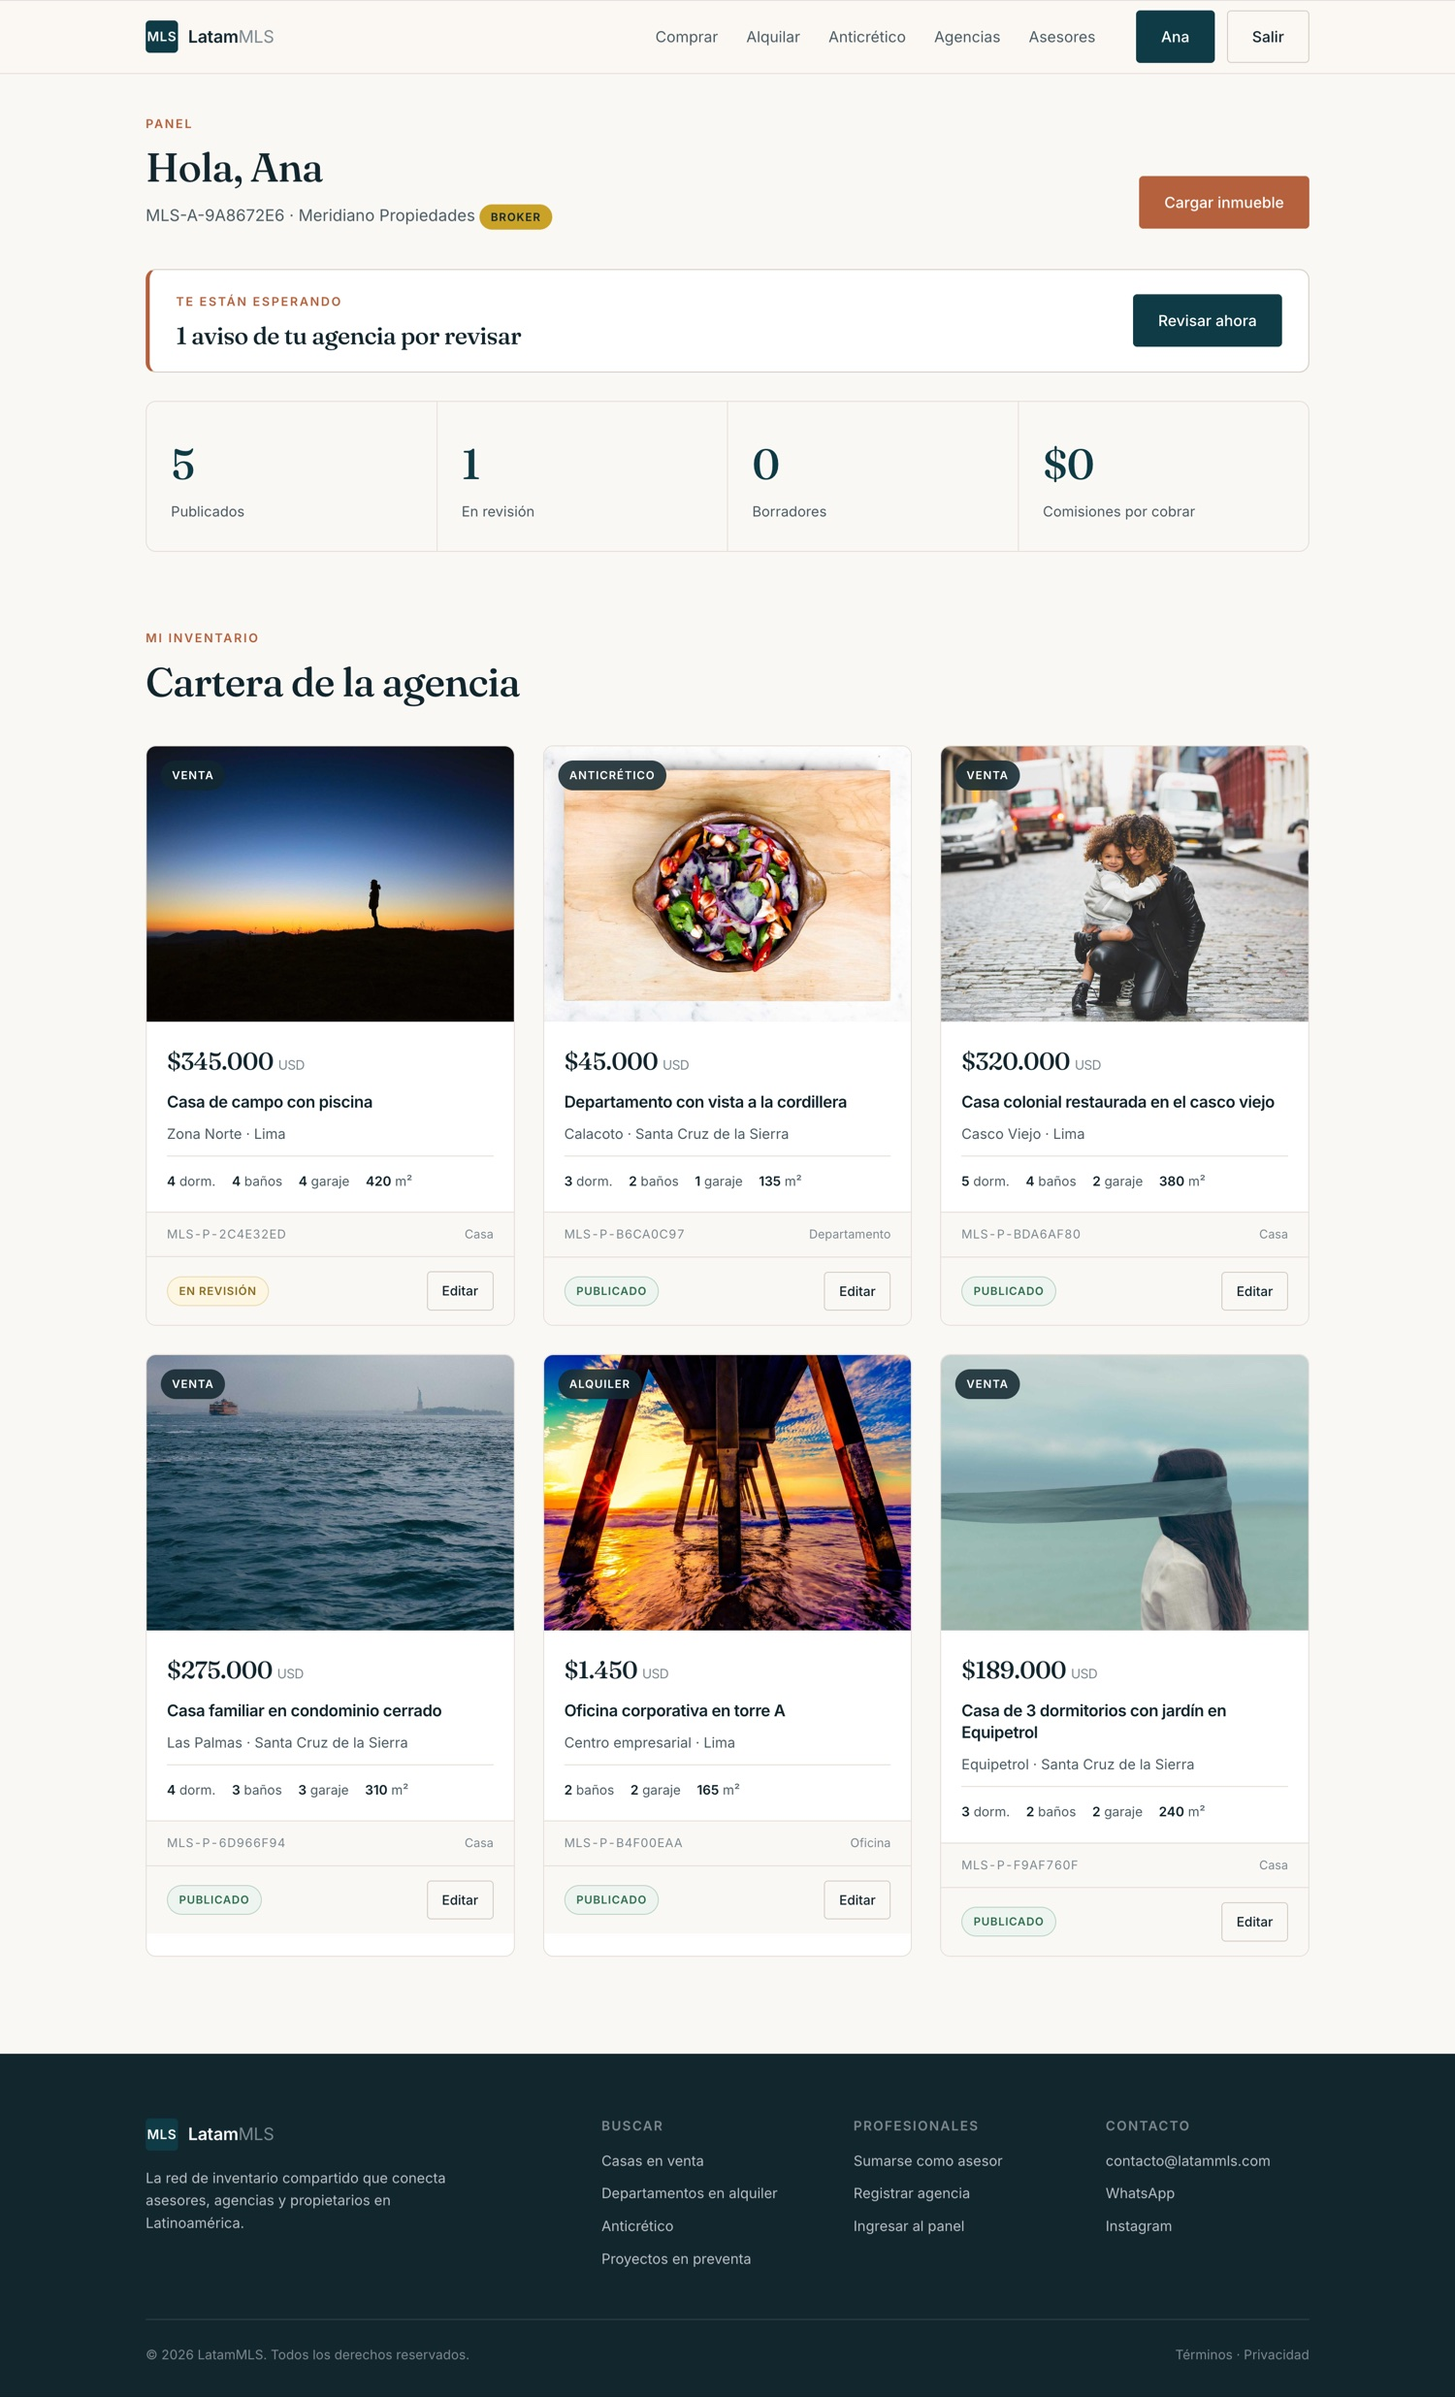
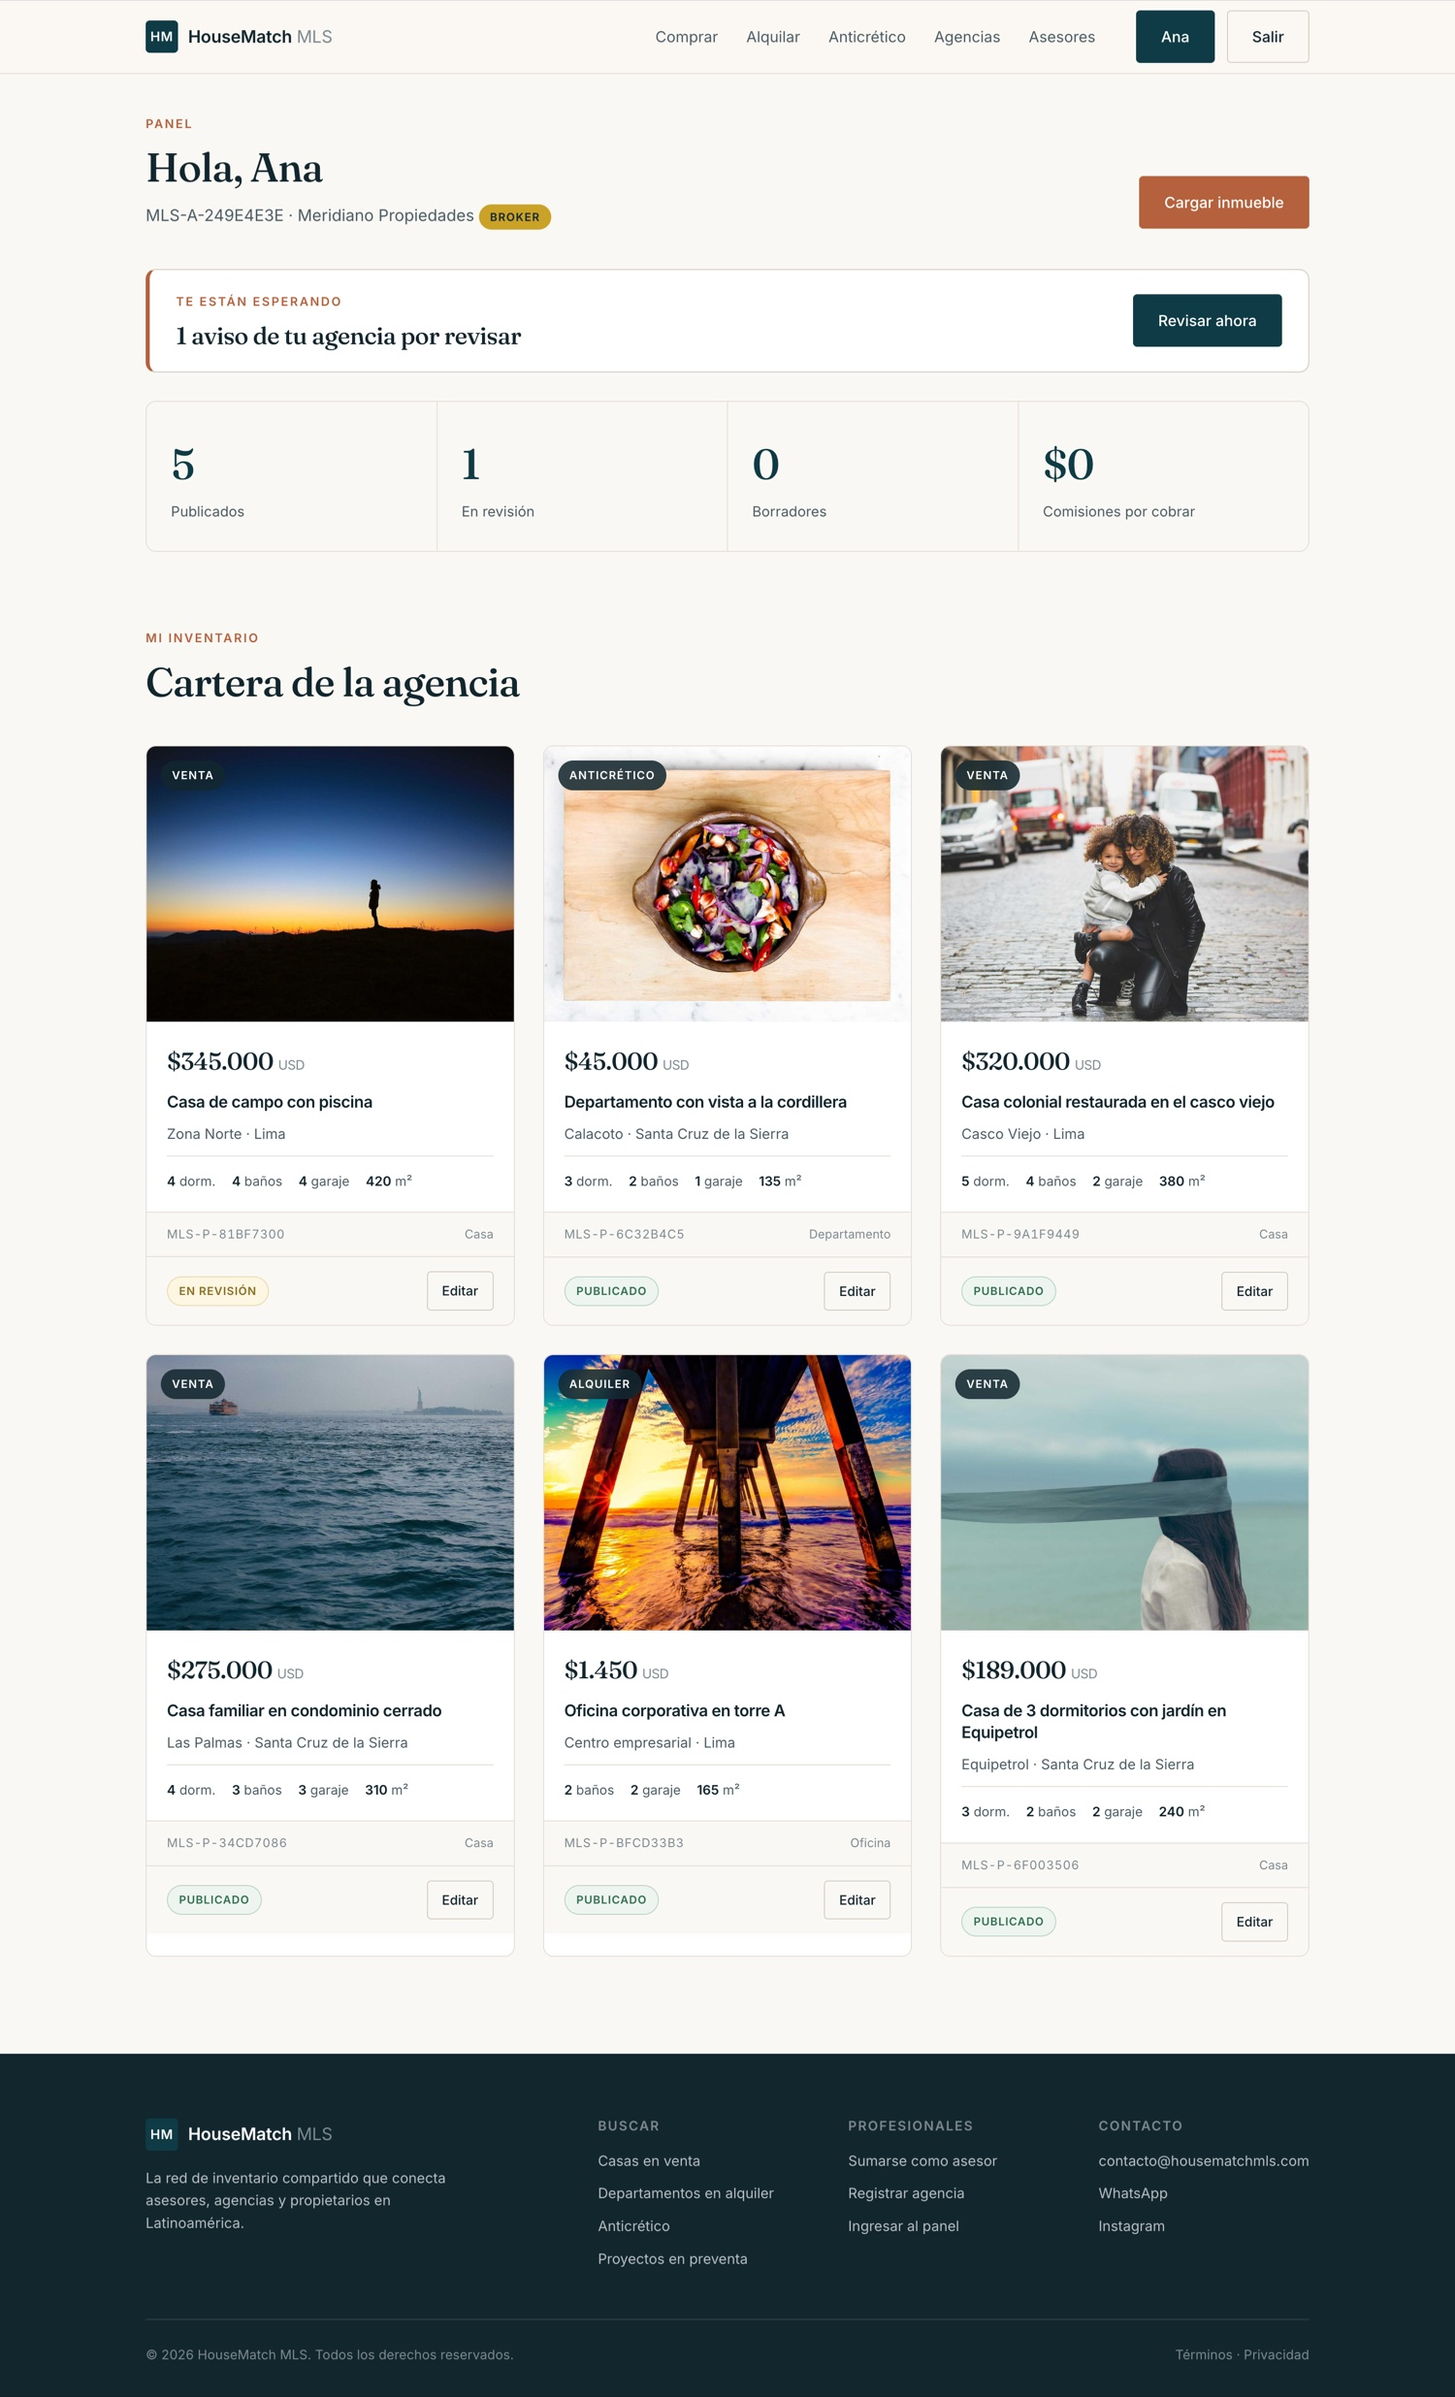
El producto pasa a llamarse HouseMatch MLS
Renombre completo: plantillas, sitio de presentación, datos de demostración y
suite de pruebas. El sello del logotipo pasa de MLS a HM, porque con el nombre
nuevo la sigla quedaba dos veces en el mismo lockup.

Los correos de demostración cambian a @housematchmls.com, así que se
regeneraron los datos y las capturas del sitio.

diff --git a/docs/index.html b/docs/index.html
@@ -3,9 +3,9 @@
 <head>
 <meta charset="utf-8">
 <meta name="viewport" content="width=device-width, initial-scale=1">
-<title>LatamMLS — el inventario inmobiliario, compartido</title>
+<title>HouseMatch MLS — el inventario inmobiliario, compartido</title>
 <meta name="description" content="Un MLS para el mercado inmobiliario latinoamericano: inventario compartido entre agencias, con trazabilidad de la captación y reparto de comisiones documentado. Django, PostgreSQL y PostGIS.">
-<meta property="og:title" content="LatamMLS">
+<meta property="og:title" content="HouseMatch MLS">
 <meta property="og:description" content="Un portal muestra avisos. Un MLS sostiene el acuerdo entre quien capta y quien vende.">
 <meta property="og:type" content="website">
 <link rel="preconnect" href="https://fonts.googleapis.com">
@@ -20,7 +20,7 @@
 <!-- ─────────────────────────────────────────────────────────── hero -->
 <header class="hero">
   <nav class="nav" aria-label="principal">
-    <span class="marca"><span class="sello">MLS</span> LatamMLS</span>
+    <span class="marca"><span class="sello">HM</span> HouseMatch MLS</span>
     <div class="nav-enlaces">
       <a href="#pantallas">la app</a>
       <a href="#garantias">qué garantiza</a>
@@ -98,10 +98,10 @@
     <figure class="marco">
       <div class="barra-navegador">
         <span class="puntos"><i></i><i></i><i></i></span>
-        <span class="url" id="url">latammls.com</span>
+        <span class="url" id="url">housematchmls.com</span>
       </div>
       <div class="ventana" id="ventana">
-        <img id="captura" src="assets/portada.jpg" alt="Portada de LatamMLS: buscador de inmuebles sobre una fotografía, con métricas del inventario debajo." width="1500" height="4375">
+        <img id="captura" src="assets/portada.jpg" alt="Portada de HouseMatch MLS: buscador de inmuebles sobre una fotografía, con métricas del inventario debajo." width="1500" height="4375">
       </div>
       <figcaption id="pie">
         La portada abre con el buscador y las métricas salen de la base, no son
@@ -112,7 +112,7 @@
 
   <aside class="movil">
     <div class="telefono">
-      <img src="assets/movil.jpg" alt="La portada de LatamMLS en pantalla de teléfono" width="560" height="1500" loading="lazy">
+      <img src="assets/movil.jpg" alt="La portada de HouseMatch MLS en pantalla de teléfono" width="560" height="1500" loading="lazy">
     </div>
     <div class="movil-texto">
       <h3>También en el teléfono</h3>
@@ -201,7 +201,7 @@ createdb mls_db &amp;&amp; psql -d mls_db -c &quot;CREATE EXTENSION postgis;&quo
     El comando de demostración deja tres agencias, cuatro asesores y doce
     inmuebles, dos de ellos esperando aprobación para que la cola del broker
     tenga contenido. Entrás como broker con
-    <code>ana.rojas@latammls.com</code> / <code>demo12345</code>.
+    <code>ana.rojas@housematchmls.com</code> / <code>demo12345</code>.
   </p>
 
   <div class="pila">

diff --git a/docs/main.js b/docs/main.js
@@ -4,32 +4,32 @@
   // Cada pantalla trae su propia URL y el pie que explica qué está probando.
   var VISTAS = {
     portada: {
-      url: "latammls.com",
-      alt: "Portada de LatamMLS: buscador de inmuebles sobre una fotografía, con las métricas del inventario debajo.",
+      url: "housematchmls.com",
+      alt: "Portada de HouseMatch MLS: buscador de inmuebles sobre una fotografía, con las métricas del inventario debajo.",
       pie: "La portada abre con el buscador y las métricas salen de la base, no son adorno: 12 propiedades publicadas, 4 asesores, 3 agencias."
     },
     buscador: {
-      url: "latammls.com/buscar/?operacion=venta",
+      url: "housematchmls.com/buscar/?operacion=venta",
       alt: "Resultados de búsqueda con filtros por operación, tipo, ciudad y precio.",
       pie: "El buscador filtra de verdad: operación, tipo, ciudad y rango de precio, con orden y paginación que conservan los filtros."
     },
     panel: {
-      url: "latammls.com/panel/",
+      url: "housematchmls.com/panel/",
       alt: "Panel del asesor con sus métricas, captaciones por vencer y su inventario.",
       pie: "El panel muestra solo lo del asesor. Pedir por dirección directa un inmueble ajeno devuelve 404, no 403: un 403 confirmaría que existe."
     },
     aprobaciones: {
-      url: "latammls.com/panel/aprobaciones/",
+      url: "housematchmls.com/panel/aprobaciones/",
       alt: "Cola de revisión del broker, con un aviso pendiente y los botones de aprobar o devolver.",
       pie: "La cola del broker. Nada de esto está en el portal todavía; al aprobar queda registrado quién lo hizo, y devolver exige escribir el motivo."
     },
     carga: {
-      url: "latammls.com/panel/inmueble/nuevo/",
+      url: "housematchmls.com/panel/inmueble/nuevo/",
       alt: "Formulario de carga de inmueble, con las secciones de ubicación pública y privada separadas.",
       pie: "El formulario separa la ubicación pública de la privada. La calle y el punto exacto son dato reservado de quien captó."
     },
     acceso: {
-      url: "latammls.com/ingresar/",
+      url: "housematchmls.com/ingresar/",
       alt: "Pantalla de acceso con el campo de correo electrónico.",
       pie: "La identidad es el correo, no un nombre de usuario: el modelo de Django no admite direcciones con apóstrofo, frecuentes en apellidos de la región."
     }

diff --git a/MLS/core/templates/core/base.html b/MLS/core/templates/core/base.html
@@ -16,8 +16,8 @@
 <header class="cabecera">
   <div class="contenedor cabecera__inner">
     <a href="{% url 'core:landing' %}" class="marca">
-      <span class="marca__sello">MLS</span>
-      <span class="marca__texto">Latam<span>MLS</span></span>
+      <span class="marca__sello">HM</span>
+      <span class="marca__texto">HouseMatch<span> MLS</span></span>
     </a>
 
     <nav class="nav">
@@ -60,8 +60,8 @@
     <div class="pie__grid">
       <div>
         <div class="marca">
-          <span class="marca__sello">MLS</span>
-          <span class="marca__texto">Latam<span>MLS</span></span>
+          <span class="marca__sello">HM</span>
+          <span class="marca__texto">HouseMatch<span> MLS</span></span>
         </div>
         <p class="pie__desc">La red de inventario compartido que conecta asesores, agencias y propietarios en Latinoamérica.</p>
       </div>
@@ -85,14 +85,14 @@
       <div>
         <h4>Contacto</h4>
         <ul>
-          <li><a href="mailto:contacto@latammls.com">contacto@latammls.com</a></li>
+          <li><a href="mailto:contacto@housematchmls.com">contacto@housematchmls.com</a></li>
           <li><a href="#">WhatsApp</a></li>
           <li><a href="#">Instagram</a></li>
         </ul>
       </div>
     </div>
     <div class="pie__base">
-      <span>&copy; {% now "Y" %} LatamMLS. Todos los derechos reservados.</span>
+      <span>&copy; {% now "Y" %} HouseMatch MLS. Todos los derechos reservados.</span>
       <span>Términos · Privacidad</span>
     </div>
   </div>

diff --git a/MLS/core/templates/core/auth/base.html b/MLS/core/templates/core/auth/base.html
@@ -3,7 +3,7 @@
 <head>
   <meta charset="UTF-8">
   <meta name="viewport" content="width=device-width, initial-scale=1">
-  <title>{% block title %}Acceso · LatamMLS{% endblock %}</title>
+  <title>{% block title %}Acceso · HouseMatch MLS{% endblock %}</title>
   <link rel="preconnect" href="https://fonts.googleapis.com">
   <link rel="preconnect" href="https://fonts.gstatic.com" crossorigin>
   <link href="https://fonts.googleapis.com/css2?family=Fraunces:ital,opsz,wght@0,9..144,400;0,9..144,500;1,9..144,400&family=Inter:wght@400;500;600&display=swap" rel="stylesheet">
@@ -15,8 +15,8 @@
   {# Panel de marca. Decorativo: se oculta en móvil. #}
   <aside class="auth__panel" aria-hidden="true">
     <a href="{% url 'core:landing' %}" class="marca">
-      <span class="marca__sello">MLS</span>
-      <span class="marca__texto" style="color:#fff">Latam<span style="color:rgba(255,255,255,.55)">MLS</span></span>
+      <span class="marca__sello">HM</span>
+      <span class="marca__texto" style="color:#fff">HouseMatch<span style="color:rgba(255,255,255,.55)"> MLS</span></span>
     </a>
 
     <div class="auth__panel-centro">
@@ -28,7 +28,7 @@
       </ul>
     </div>
 
-    <p class="auth__pie">&copy; {% now "Y" %} LatamMLS</p>
+    <p class="auth__pie">&copy; {% now "Y" %} HouseMatch MLS</p>
   </aside>
 
   <main class="auth__form">

diff --git a/MLS/core/templates/core/panel/pendiente.html b/MLS/core/templates/core/panel/pendiente.html
@@ -1,6 +1,6 @@
 {% extends "core/base.html" %}
 
-{% block title %}Tu cuenta · LatamMLS{% endblock %}
+{% block title %}Tu cuenta · HouseMatch MLS{% endblock %}
 
 {% block content %}
 <section class="contenedor seccion">
@@ -9,7 +9,7 @@
       <p class="eyebrow">Cuenta sin asesor</p>
       <h3>Tu cuenta todavía no está vinculada a un asesor</h3>
       <p>
-        Escribinos a <a href="mailto:contacto@latammls.com">contacto@latammls.com</a>
+        Escribinos a <a href="mailto:contacto@housematchmls.com">contacto@housematchmls.com</a>
         y lo resolvemos.
       </p>
     {% elif asesor.estado == "pendiente" %}
@@ -23,7 +23,7 @@
       <p class="eyebrow">Cuenta no habilitada</p>
       <h3>Tu cuenta no está habilitada</h3>
       <p>
-        Escribinos a <a href="mailto:contacto@latammls.com">contacto@latammls.com</a>
+        Escribinos a <a href="mailto:contacto@housematchmls.com">contacto@housematchmls.com</a>
         para revisar tu situación.
       </p>
     {% endif %}

diff --git a/MLS/core/templates/core/panel/index.html b/MLS/core/templates/core/panel/index.html
@@ -1,6 +1,6 @@
 {% extends "core/base.html" %}
 
-{% block title %}Mi panel · LatamMLS{% endblock %}
+{% block title %}Mi panel · HouseMatch MLS{% endblock %}
 
 {% block content %}
 <section class="contenedor" style="padding-block:40px 0">
@@ -34,7 +34,7 @@
       <strong>Necesitás pertenecer a una agencia para publicar.</strong>
       Cada aviso lo aprueba el broker de tu agencia antes de salir al portal, así
       que sin agencia no hay quien lo avale. Escribinos a
-      <a href="mailto:contacto@latammls.com">contacto@latammls.com</a> y te
+      <a href="mailto:contacto@housematchmls.com">contacto@housematchmls.com</a> y te
       ayudamos a sumarte a una.
     </div>
   {% endif %}

diff --git a/MLS/core/templates/core/auth/ingresar.html b/MLS/core/templates/core/auth/ingresar.html
@@ -1,6 +1,6 @@
 {% extends "core/auth/base.html" %}
 
-{% block title %}Ingresar · LatamMLS{% endblock %}
+{% block title %}Ingresar · HouseMatch MLS{% endblock %}
 
 {% block content %}
 <p class="eyebrow">Acceso asesores</p>
@@ -23,7 +23,7 @@
 </form>
 
 <p class="auth__nota">
-  <a href="mailto:contacto@latammls.com?subject=Recuperar%20contrase%C3%B1a">¿Olvidaste tu contraseña?</a>
+  <a href="mailto:contacto@housematchmls.com?subject=Recuperar%20contrase%C3%B1a">¿Olvidaste tu contraseña?</a>
 </p>
 
 <p class="auth__cambio">

diff --git a/docs/styles.css b/docs/styles.css
@@ -1,5 +1,5 @@
 /* ==========================================================================
-   LatamMLS — sitio de presentación
+   HouseMatch MLS — sitio de presentación
    Todo el sistema cuelga de --tono: un solo número rota la marca entera.
    ========================================================================== */
 

diff --git a/MLS/core/templates/core/panel/inmueble_form.html b/MLS/core/templates/core/panel/inmueble_form.html
@@ -1,6 +1,6 @@
 {% extends "core/base.html" %}
 
-{% block title %}{% if object %}Editar inmueble{% else %}Cargar inmueble{% endif %} · LatamMLS{% endblock %}
+{% block title %}{% if object %}Editar inmueble{% else %}Cargar inmueble{% endif %} · HouseMatch MLS{% endblock %}
 
 {% block content %}
 <section class="contenedor seccion">

diff --git a/MLS/core/templates/core/auth/sumarme.html b/MLS/core/templates/core/auth/sumarme.html
@@ -1,6 +1,6 @@
 {% extends "core/auth/base.html" %}
 
-{% block title %}Sumarme al MLS · LatamMLS{% endblock %}
+{% block title %}Sumarme al MLS · HouseMatch MLS{% endblock %}
 {% block panel_titulo %}Sumate a la red que comparte inventario.{% endblock %}
 
 {% block content %}

diff --git a/MLS/core/templates/core/buscar.html b/MLS/core/templates/core/buscar.html
@@ -1,6 +1,6 @@
 {% extends "core/base.html" %}
 
-{% block title %}Resultados de búsqueda · LatamMLS{% endblock %}
+{% block title %}Resultados de búsqueda · HouseMatch MLS{% endblock %}
 
 {% block content %}
 <section class="contenedor resultados__cabecera">

diff --git a/MLS/core/templates/core/landing.html b/MLS/core/templates/core/landing.html
@@ -1,7 +1,7 @@
 {% extends "core/base.html" %}
 {% load static %}
 
-{% block title %}Encontrá tu próximo lugar · LatamMLS{% endblock %}
+{% block title %}Encontrá tu próximo lugar · HouseMatch MLS{% endblock %}
 
 {% block extra_head %}
 <style>
